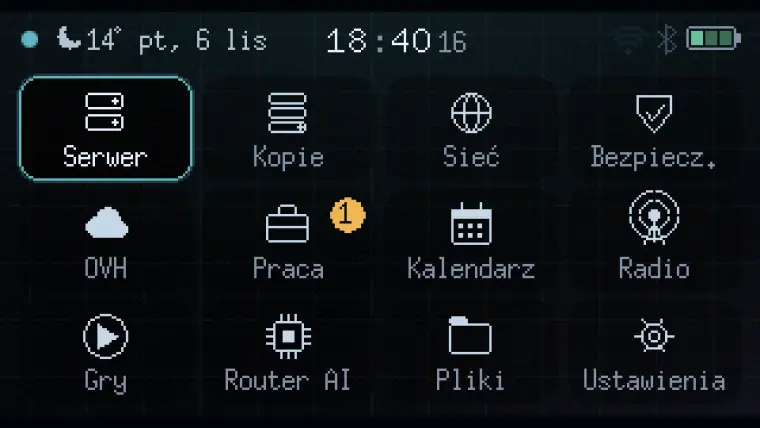
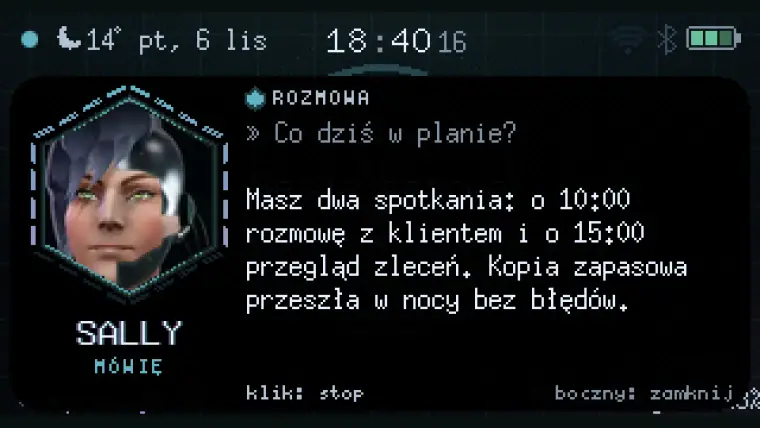
Pilot: okładka karty z oknem rozmowy (twarz Sally) z render.py, film o rozmowę głosową z Sally i Tonym (36 s, wgrać do wydania media przy publikacji); podpisy PL/EN/RU
Kind: feat

diff --git a/tools/pilot/render.py b/tools/pilot/render.py
@@ -27,6 +27,7 @@ REMOTE = Path(os.environ.get("GC_REMOTE", Path.home() / "src/gitcloud-remote"))
 OUT = SITE / "public/img/projekty"
 SHOTS = {"scenariusz.txt": ["kafelki", "claude", "muzyka", "wykres", "maszyny", "pin"],
          "scenariusz-glos.txt": ["dzwiek", "rozmowa", "tony"]}
+OKLADKA = "rozmowa"  # okładka karty: ekran 4:1 (1280x680) na 1280x720, pasy w kolorze rogu ekranu
 
 # (plik, było, jest) : tylko kopia w katalogu tymczasowym
 PL = [
@@ -130,6 +131,12 @@ def main():
             dst = OUT / f"pilot-{s}.png"
             im.save(dst, optimize=True)
             print(dst.relative_to(SITE), dst.stat().st_size // 1024, "KB")
+            if s == OKLADKA:
+                card = Image.new("RGB", (1280, 720), im.getpixel((0, 0)))
+                card.paste(im, (0, (720 - im.height) // 2))
+                dst = OUT / "pilot-okladka.webp"
+                card.save(dst, quality=86)
+                print(dst.relative_to(SITE), dst.stat().st_size // 1024, "KB")
     finally:
         shutil.rmtree(tmp, ignore_errors=True)
 
